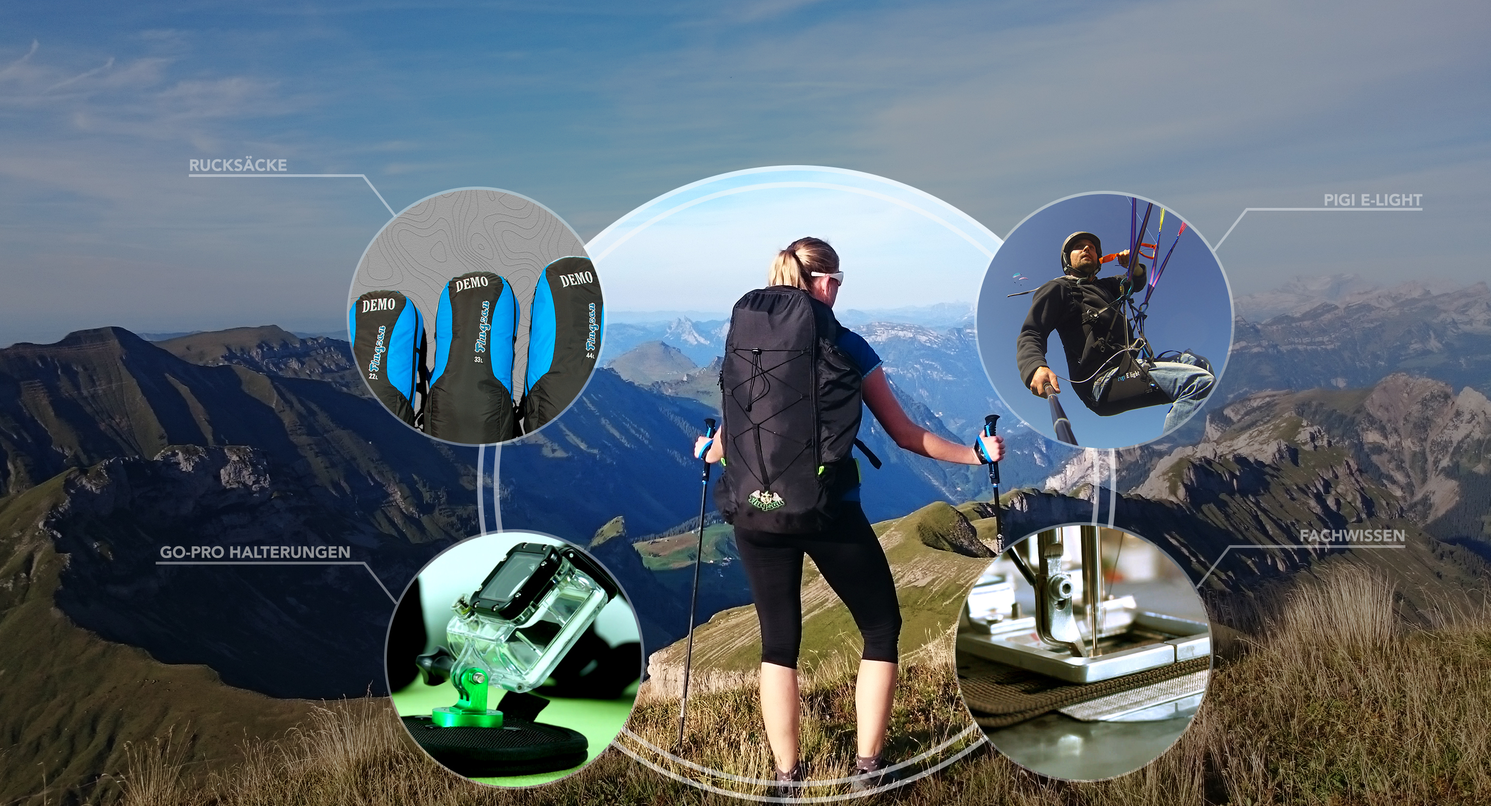
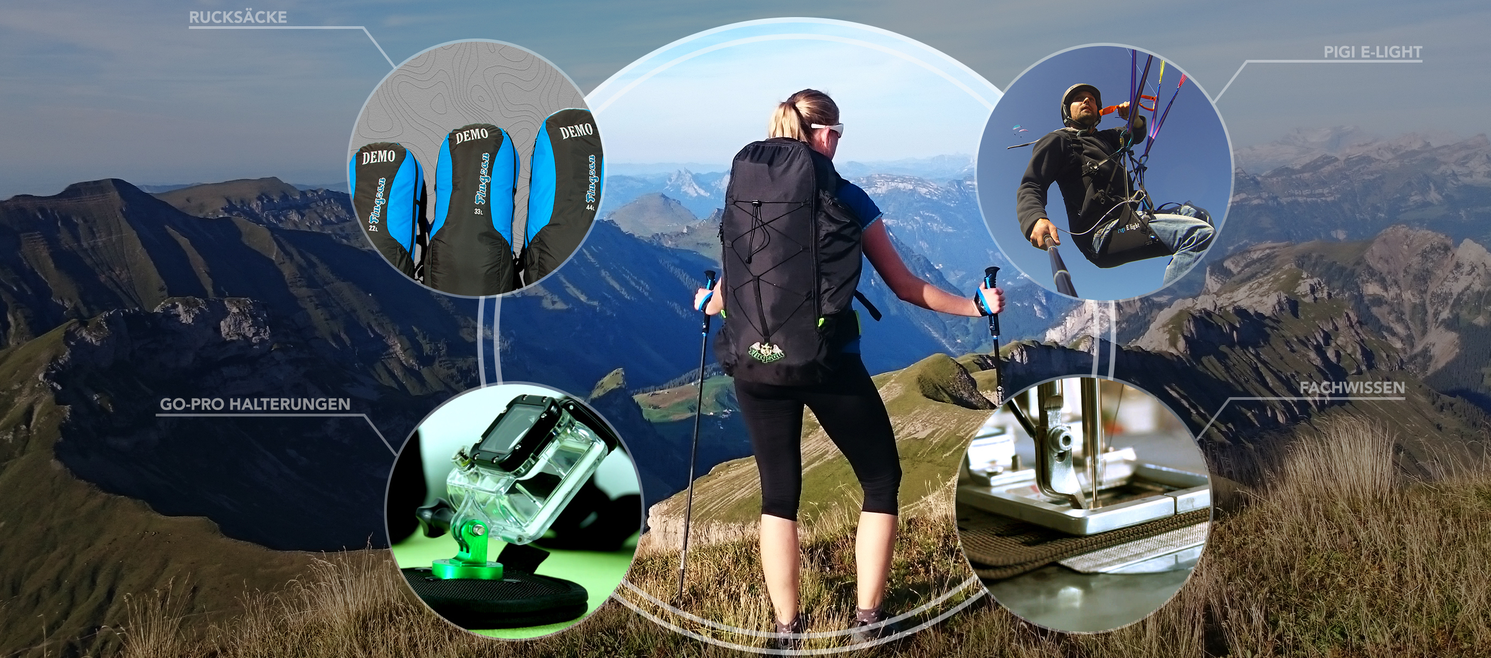
add cover to homepage

diff --git a/app/design/frontend/Smartwave/porto_child/web/css/source/_extend.less b/app/design/frontend/Smartwave/porto_child/web/css/source/_extend.less
@@ -120,4 +120,8 @@ h1, h2, h3, h4, h5 {
             }
         }
     }
+
+    .home-cover {
+        width: 100%;
+    }
 }

diff --git a/app/code/Flugsau/Shop/Setup/UpgradeData.php b/app/code/Flugsau/Shop/Setup/UpgradeData.php
@@ -1,0 +1,57 @@
+<?php
+namespace Flugsau\Shop\Setup;
+
+use Magento\Framework\Setup\UpgradeDataInterface;
+use Magento\Framework\Setup\ModuleContextInterface;
+use Magento\Framework\Setup\ModuleDataSetupInterface;
+
+/**
+ * @codeCoverageIgnore
+ */
+class UpgradeData implements UpgradeDataInterface
+{
+    /**
+     * @var \Magento\Cms\Model\PageFactory
+     */
+    protected $_pageFactory;
+
+    /**
+     * Construct
+     *
+     * @param \Magento\Cms\Model\PageFactory $pageFactory
+     */
+    public function __construct(
+        \Magento\Cms\Model\PageFactory $pageFactory
+    ) {
+        $this->_pageFactory = $pageFactory;
+    }
+
+    /**
+     * @param ModuleDataSetupInterface $setup
+     * @param ModuleContextInterface $context
+     */
+    public function upgrade(ModuleDataSetupInterface $setup, ModuleContextInterface $context)
+    {
+        $setup->startSetup();
+
+        if (version_compare($context->getVersion(), '1.0.1') < 0) {
+
+            $layoutXml = <<<XML
+<referenceContainer name="page.top">
+    <block class="Magento\Framework\View\Element\Template" name="home_cover" template="Flugsau_Shop::html/home_cover.phtml" before="-" />
+</referenceContainer>
+XML;
+
+            $page = $this->_pageFactory->create();
+            $page->setTitle('Flugsau Home')
+                ->setIdentifier('flugsau-home-page')
+                ->setIsActive(true)
+                ->setPageLayout('1column')
+                ->setStores(array(0))
+                ->setLayoutUpdateXml($layoutXml)
+                ->save();
+        }
+
+        $setup->endSetup();
+    }
+}

diff --git a/app/etc/config.php b/app/etc/config.php
@@ -565,7 +565,7 @@ Disallow: /*SID=
         ),
         'default' => 
         array (
-          'cms_home_page' => 'home',
+          'cms_home_page' => 'flugsau-home-page',
           'cms_no_route' => 'no-route-2',
           'cms_no_cookies' => 'enable-cookies',
           'no_route' => 'cms/noroute/index',
